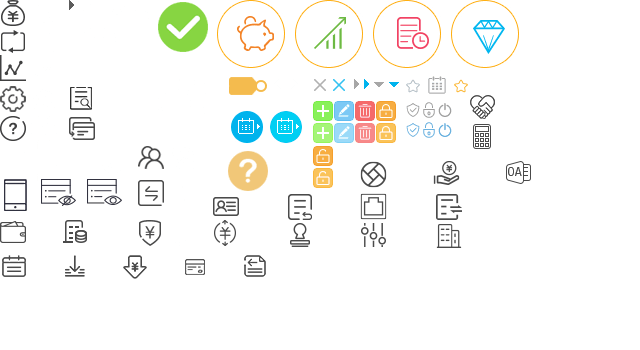
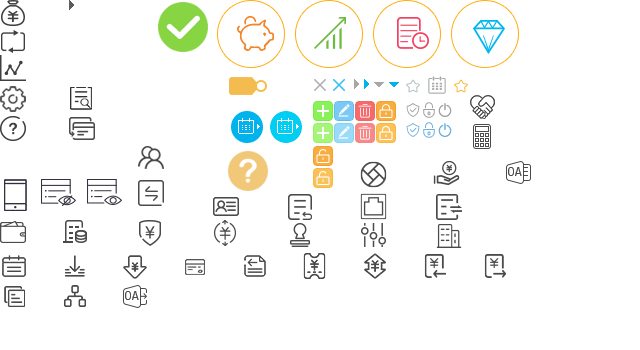
问题修复

diff --git a/src/components/batchPayment/SettleAccounts.vue b/src/components/batchPayment/SettleAccounts.vue
@@ -270,10 +270,10 @@
                                 <el-select v-model="childSearch.acc_no" placeholder="请选择银行账号"
                                            clearable filterable
                                            style="width:100%">
-                                    <el-option v-for="channel in channelList"
-                                               :key="channel.channel_id"
-                                               :label="channel.channel_desc"
-                                               :value="channel.channel_id">
+                                    <el-option v-for="bank in bankList"
+                                               :key="bank.acc_no"
+                                               :label="bank.acc_no"
+                                               :value="bank.acc_no">
                                     </el-option>
                                 </el-select>
                             </el-form-item>
@@ -373,6 +373,8 @@
             this.getChannelList();
             //bankcode
             this.getBankcode();
+            //银行账号
+            this.getBankList();
         },
         props: ["tableData"],
         data: function () {
@@ -415,6 +417,7 @@
                 sourceList: {}, //常量数据
                 channelList: [],
                 bankcodeList: [],
+                bankList: [],
                 batchidList: [], //选中数据
                 versionList: [],
                 tradingList: [],
@@ -544,6 +547,33 @@
                     console.log(error);
                 });
             },
+            //获取银行账号
+            getBankList: function(){
+                this.$axios({
+                    url: this.queryUrl + "normalProcess",
+                    method: "post",
+                    data: {
+                        optype: "sftpaycheck_getallaccountno",
+                        params: {
+
+                        }
+                    }
+                }).then((result) => {
+                    if (result.data.error_msg) {
+                        this.$message({
+                            type: "error",
+                            message: result.data.error_msg,
+                            duration: 2000
+                        });
+                    } else {
+                        var data = result.data.data;
+                        this.bankList = data;
+                    }
+
+                }).catch(function (error) {
+                    console.log(error);
+                });
+            },
             //选择通道编码后设置bankcode
             setBankcode: function(val){
                 var channelList = this.channelList;
@@ -599,13 +629,14 @@
                 var recvAmount = 0;
                 for (var i = 0; i < val.length; i++) {
                     var item = val[i];
-                    if(item.direction == 0){
+                    if(item.direction == 1){
                         recvAmount += item.amount;
                     }else{
                         payAmount += item.amount;
                     }
                     this.tradingList.push(item.id);
                 }
+
                 this.childTotalData.payAmount = payAmount;
                 this.childTotalData.recvAmount = recvAmount;
                 if(payAmount > recvAmount){

diff --git a/src/components/examineApprove/MyExamineApprove.vue b/src/components/examineApprove/MyExamineApprove.vue
@@ -1819,24 +1819,22 @@
                 "24":[
                     {id:"1", lspan:4, label:"来源系统"},
                     {id:"2", pspan:8, prop:"source_sys"},
-                    {id:"3", lspan:4, label:"主批次号"},
-                    {id:"4",pspan:8, prop:"master_batchno"},
-                    {id:"5", lspan:4, label:"子批次号"},
-                    {id:"6", pspan:8, prop:"child_batchno"},
-                    {id:"7", lspan:4, label:"组批时间"},
-                    {id:"8", pspan:8, prop:"create_on"},
+                    {id:"3", lspan:4, label:"子批次号"},
+                    {id:"4",pspan:8, prop:"child_batchno"},
+                    {id:"5", lspan:4, label:"交互方式"},
+                    {id:"6", pspan:8, prop:"interactive_mode"},
+                    {id:"7", lspan:4, label:"出盘日期"},
+                    {id:"8", pspan:8, prop:"send_on"},
                     {id:"9", lspan:4, label:"操作人"},
                     {id:"10", pspan:8, prop:"name"},
                     {id:"11", lspan:4, label:"总笔数"},
                     {id:"12", pspan:8, prop:"pay_master_total_num"},
                     {id:"13", lspan:4, label:"总金额"},
-                    {id:"14", pspan:8, prop:"pay_master_total_num"},
+                    {id:"14", pspan:8, prop:"pay_master_total_amount"},
                     {id:"15", lspan:4, label:"渠道编码"},
                     {id:"16", pspan:8, prop:"channel_code"},
                     {id:"17", lspan:4, label:"渠道描述"},
                     {id:"18", pspan:8, prop:"channel_desc"},
-                    {id:"19", lspan:4, label:"交互方式"},
-                    {id:"20",pspan:8, prop:"interactive_mode"}
                 ],
                 "26":[
                     {id:"1", lspan:4, label:"来源系统"},
@@ -2108,11 +2106,11 @@
                     "26":[
                         {id:'1',prop:"source_sys",name:'来源系统'},
                         {id:'3',prop:"child_batchno",name:'子批次号'},
-                        {id:'4',prop:"channel_code",name:'通道编码'},
-                        {id:'5',prop:"total_amount",name:'总金额'},
-                        {id:'6',prop:"service_status",name:'状态'},
-                        {id:'7',prop:"revoke_user_name",name:'回退申请人'},
-                        {id:'8',prop:"revoke_date",name:'申请日期'}
+                        {id:'4',prop:"interactive_mode",name:'交互方式'},
+                        {id:'5',prop:"channel_code",name:'通道编码'},
+                        {id:'6',prop:"channel_desc",name:'通道描述'},
+                        {id:'7',prop:"send_on",name:'出盘日期'},
+                        {id:'8',prop:"total_amount",name:'总金额'}
                     ]
                 },
                 editableTabsList: {},

diff --git a/src/components/batchPayment/PayDiskSending.vue b/src/components/batchPayment/PayDiskSending.vue
@@ -177,9 +177,15 @@
                     <template slot-scope="scope" class="operationBtn">
                         <el-tooltip content="下载" placement="bottom" effect="light"
                                     :enterable="false" :open-delay="500"
-                                    v-show="scope.row.interactive_mode=='报盘' && (scope.row.status=='已审批未发送' || scope.row.status=='已发送未回盘')">
+                                    v-if="scope.row.interactive_mode=='报盘' && (scope.row.status=='已审批未发送' || scope.row.status=='已发送未回盘')">
                             <el-button type="info" icon="el-icon-download" size="mini"
                                        @click="downData(scope.row)"></el-button>
+                        </el-tooltip>
+                        <el-tooltip content="发送" placement="bottom" effect="light"
+                                    :enterable="false" :open-delay="500"
+                                    v-if="scope.row.interactive_mode=='直连'">
+                            <el-button type="info" icon="el-icon-download" size="mini"
+                                       @click="sendData(scope.row)"></el-button>
                         </el-tooltip>
                     </template>
                 </el-table-column>
@@ -326,6 +332,37 @@
                     }
                 }
                 this.$emit("downLoadData", params);
+            },
+            //发送
+            sendData: function (row) {
+                this.$axios({
+                    url: this.queryUrl + "normalProcess",
+                    method: "post",
+                    data: {
+                        optype: "disksending_sendbank",
+                        params: {
+                            id: row.id
+                        }
+                    },
+                    responseType: 'blob'
+                }).then((result) => {
+                    if (result.data.error_msg) {
+                        this.$message({
+                            type: "error",
+                            message: result.data.error_msg,
+                            duration: 2000
+                        });
+                    } else {
+                        this.$message({
+                            type: "success",
+                            message: "发送成功",
+                            duration: 2000
+                        });
+                        this.$emit("getCommTable", this.routerMessage);
+                    }
+                }).catch(function (error) {
+                    console.log(error);
+                })
             },
             //导出
             exportFun: function () {

diff --git a/src/components/publicModule/Left.vue b/src/components/publicModule/Left.vue
@@ -123,6 +123,10 @@
             .icon-xtsz {
                 background-position: -31px -85px;
             }
+
+            .icon-plfk{
+                background-position: -512px -252px;
+            }
             /*首页背景图定位结束*/
         }
 
@@ -193,6 +197,9 @@
             }
             .icon-xtsz {
                 background-position: 0px -85px;
+            }
+            .icon-plfk{
+                background-position: -482px -252px;
             }
 
             .el-submenu__title p {
@@ -282,6 +289,10 @@
 
             .el-submenu__title:hover .icon-xtsz {
                 background-position: -31px -85px;
+            }
+
+            .el-submenu__title:hover .icon-plfk{
+                background-position: -512px -252px;
             }
 
             .el-submenu__title:hover p {
